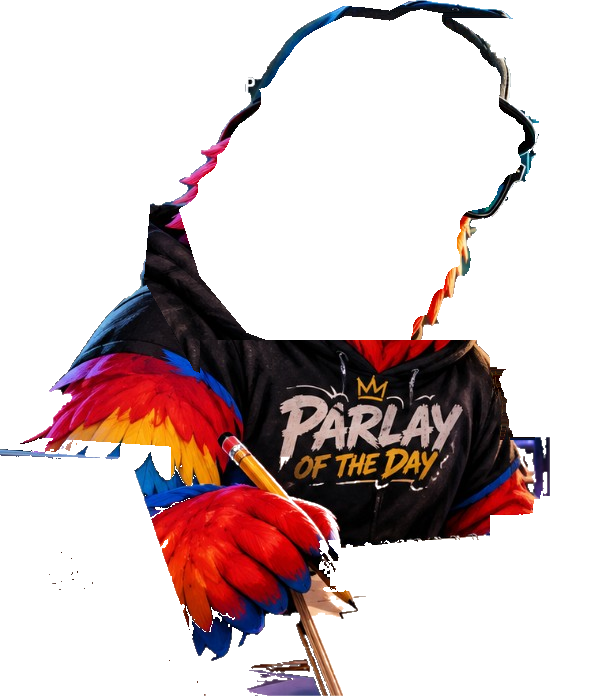
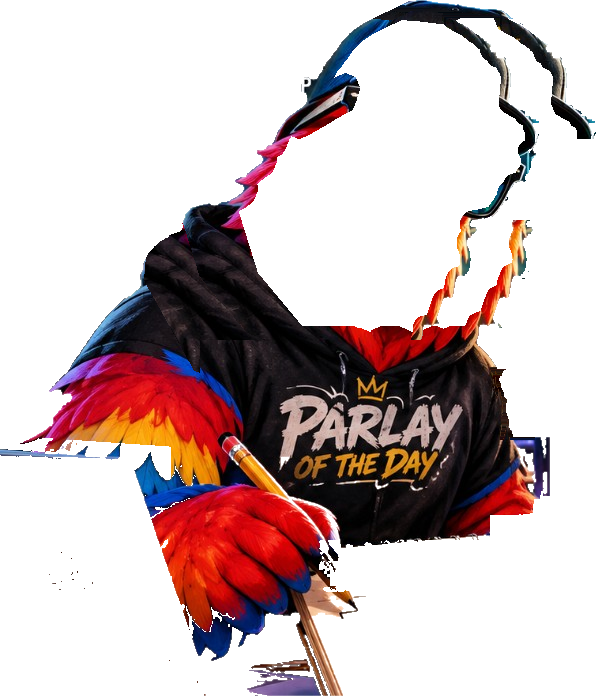
Seat the parrot's head on the original chest, and keep Build and Our Bets zoomed the same way in a wide window.

Changed region(s): [[0.24, 0.0, 0.9, 0.5129], [0.81, 0.0302, 0.99, 0.2112]]

diff --git a/nfl_bets/static/index.html b/nfl_bets/static/index.html
@@ -9,7 +9,7 @@
 <link rel="preconnect" href="https://fonts.gstatic.com" crossorigin/>
 <link href="https://fonts.googleapis.com/css2?family=Oswald:wght@500;600&family=Outfit:wght@400;500;600;700&family=Rajdhani:wght@600;700&display=swap" rel="stylesheet"/>
 <link rel="stylesheet" href="/app.css?v=45"/>
-<link rel="stylesheet" href="/desk.css?v=15"/>
+<link rel="stylesheet" href="/desk.css?v=18"/>
 <style>
 #page-title { display: none; }
 #who { gap: 0.28rem; align-items: center; }
@@ -61,15 +61,16 @@ body.day-board #parrot-load[hidden] { display: none; }
     <div class="warp" id="desk-note"><div class="warp-in" id="desk-note-in"></div></div>
     <img id="desk-books" alt="" src="/scene/books.png">
     <div id="desk-actor">
-      <img id="desk-body" alt="" src="/scene/parrot-body.png?v=2">
+      <img id="desk-body" alt="" src="/scene/parrot-body.png?v=3">
       <div id="desk-head">
-        <img id="desk-parrot" alt="" src="/scene/parrot-head.png?v=2">
+        <img id="desk-parrot" alt="" src="/scene/parrot-head.png?v=4">
         <div id="desk-glint" aria-hidden="true"></div>
       </div>
     </div>
+    <img id="desk-sign" alt="" src="/scene/sign-words.png?v=1">
     <div class="warp" id="desk-laptop"><div class="warp-in" id="desk-laptop-in"></div></div>
     <button type="button" class="hot" data-tab="week" aria-label="Week" style="left:300px;top:728px;width:420px;height:52px"></button>
-    <button type="button" class="hot" data-tab="open" aria-label="Our bets" style="left:640px;top:688px;width:280px;height:150px"></button>
+    <button type="button" class="hot" data-tab="how" aria-label="How we pick" style="left:640px;top:688px;width:280px;height:150px"></button>
     <button type="button" class="hot" data-tab="history" aria-label="History" style="left:860px;top:740px;width:99px;height:190px"></button>
   </div>
   <nav id="desk-dock" aria-label="Desk">
@@ -273,6 +274,18 @@ body.day-board #parrot-load[hidden] { display: none; }
 </div>
 </div>
 </div>
+<section class="tracked" id="pane-how" hidden>
+  <h2>How we pick</h2>
+  <p class="quiet">Four steps. Then a ticket for today and a ticket for the week.</p>
+  <p><b>Research</b></p>
+  <p class="quiet">FanDuel is checked every 10 minutes. The slate is already the player props on the board. College player props stay off, because FanDuel does not offer them.</p>
+  <p><b>Analyze</b></p>
+  <p class="quiet">The card names the stat, so a price has a job. A −550 on 5 receiving yards and a −550 on a score are different bets. Four prices near 85% multiply to about a coin flip. Prices like −800 stay off the best bet of the day.</p>
+  <p><b>Make the picks</b></p>
+  <p class="quiet">Today is the ticket whose price lands between −150 and +100, and the highest chance inside that window. The week is a 3-leg and a 5-leg aimed at −200, so a $5 bet wins about $2.50, plus a super safe parlay aimed at −350. Each leg is a different day. Build a bet can ask for the highest chance, a safe −200, a good −100, or the longest price.</p>
+  <p><b>Cash</b></p>
+  <p class="quiet">You place it. This desk does not send it. Type the line into your own FanDuel account if you want it. A $5 night stays a $5 night. 21+. Gambling problem? Call 1-800-GAMBLER. Past results do not promise the next ticket.</p>
+</section>
 <div class="pane" id="pane-open" hidden>
 <section class="tracked">
   <h2>Our Bets</h2>
@@ -393,8 +406,8 @@ body.day-board #parrot-load[hidden] { display: none; }
   <p>21+. This desk does not send bets. Type a line into your own FanDuel account if you want it.</p>
   <p>Gambling problem? Call 1-800-GAMBLER.</p>
 </footer>
-<script src="/app.js?v=68"></script>
-<script src="/desk.js?v=14"></script>
+<script src="/app.js?v=69"></script>
+<script src="/desk.js?v=18"></script>
 <script src="/members.js?v=15"></script>
 <script src="/stars.js?v=1"></script>
 <script src="/choose.js?v=21"></script>

diff --git a/nfl_bets/static/desk.js b/nfl_bets/static/desk.js
@@ -5,6 +5,7 @@ const PANES = {
   week: ["week", "week5", "safe"],
   build: ["chooser"],
   open: ["pane-open"],
+  how: ["pane-how"],
   history: ["pane-history"],
   profile: ["pane-profile"],
 };
@@ -14,6 +15,10 @@ let shown = "";
 let tweenId = 0;
 
 function viewSize() {
+  const desk = document.getElementById("desk");
+  if (desk && desk.clientWidth > 0 && desk.clientHeight > 0) {
+    return { w: desk.clientWidth, h: desk.clientHeight };
+  }
   const view = window.visualViewport;
   return {
     w: view ? view.width : window.innerWidth,
@@ -66,8 +71,10 @@ function warp() {
   if (laptop && laptop.clientWidth) laptop.style.transform = quadMatrix(laptop.clientWidth, laptop.clientHeight, LAPTOP);
 }
 
-function place(x, y, scale) {
-  const { w, h } = viewSize();
+function place(x, y, scale, box) {
+  const full = viewSize();
+  const w = box ? box.w : full.w;
+  const h = box ? box.h : full.h;
   const visW = w / scale;
   const visH = h / scale;
   const midX = 959 / 2;
@@ -76,15 +83,28 @@ function place(x, y, scale) {
     x: Math.min(Math.max(x, Math.min(visW / 2, midX)), Math.max(959 - visW / 2, midX)),
     y: Math.min(Math.max(y, Math.min(visH / 2, midY)), Math.max(1024 - visH / 2, midY)),
     scale,
+    ox: box ? box.ox : 0,
+    oy: box ? box.oy : 0,
+    sw: w,
+    sh: h,
   };
+}
+
+function zoomBox(w, h) {
+  const aspect = 640 / 720;
+  const fw = h * aspect;
+  return { w: fw, h, ox: (w - fw) / 2, oy: 0 };
 }
 
 function shot(name) {
   const { w, h } = viewSize();
-  const cover = Math.max(w / 959, h / 1024);
   const fit = Math.min(w / 959, h / 1024);
-  if (name === "build" || name === "open" || name === "history" || name === "profile") {
-    return place(750, 340, Math.max(cover, Math.min(w / 480, h / 720)));
+  if (name === "build" || name === "open" || name === "history" || name === "profile" || name === "how") {
+    if (w / h > 640 / 720) {
+      const box = zoomBox(w, h);
+      return place(900, 0, Math.min(box.w / 640, box.h / 720), box);
+    }
+    return place(900, 0, Math.max(w / 700, h / 720));
   }
   return place(480, 512, fit);
 }
@@ -93,11 +113,24 @@ function apply() {
   const world = document.getElementById("desk-world");
   if (!world) return;
   const { w, h } = viewSize();
-  world.style.transform = `translate(${w / 2 - cam.x * cam.scale}px, ${h / 2 - cam.y * cam.scale}px) scale(${cam.scale})`;
+  const sw = cam.sw || w;
+  const sh = cam.sh || h;
+  const ox = cam.ox || 0;
+  const oy = cam.oy || 0;
+  world.style.transform = `translate(${ox + sw / 2 - cam.x * cam.scale}px, ${oy + sh / 2 - cam.y * cam.scale}px) scale(${cam.scale})`;
 }
 
 function tween(target) {
-  const from = { x: cam.x, y: cam.y, scale: cam.scale };
+  const { w, h } = viewSize();
+  const from = {
+    x: cam.x,
+    y: cam.y,
+    scale: cam.scale,
+    ox: cam.ox || 0,
+    oy: cam.oy || 0,
+    sw: cam.sw || w,
+    sh: cam.sh || h,
+  };
   const start = performance.now();
   const token = ++tweenId;
   function step(now) {
@@ -107,6 +140,10 @@ function tween(target) {
     cam.x = from.x + (target.x - from.x) * ease;
     cam.y = from.y + (target.y - from.y) * ease;
     cam.scale = from.scale + (target.scale - from.scale) * ease;
+    cam.ox = from.ox + ((target.ox || 0) - from.ox) * ease;
+    cam.oy = from.oy + ((target.oy || 0) - from.oy) * ease;
+    cam.sw = from.sw + ((target.sw || w) - from.sw) * ease;
+    cam.sh = from.sh + ((target.sh || h) - from.sh) * ease;
     apply();
     if (k < 1) requestAnimationFrame(step);
   }

diff --git a/nfl_bets/static/desk.css b/nfl_bets/static/desk.css
@@ -157,15 +157,24 @@ body.needs-member #desk-head { animation: desk-talk 0.48s ease-in-out infinite; 
   z-index: 8;
   pointer-events: none;
 }
+#desk-sign {
+  position: absolute;
+  left: 118px;
+  top: 230px;
+  width: 216px;
+  height: 47px;
+  z-index: 9;
+  pointer-events: none;
+}
 #desk-head {
   position: absolute;
   inset: 0;
-  transform-origin: 360px 534px;
+  transform-origin: 416px 534px;
   animation: desk-bob 3.2s ease-in-out infinite;
 }
 #desk-glint {
   position: absolute;
-  left: 322px;
+  left: 378px;
   top: 328px;
   width: 168px;
   height: 42px;
@@ -247,6 +256,8 @@ body.needs-member #desk-head { animation: desk-talk 0.48s ease-in-out infinite; 
   letter-spacing: 0.04em;
   text-transform: uppercase;
 }
+#desk-glass #pane-how p { margin: 0 0 6px; }
+#desk-glass #pane-how b { color: #3dff6e; font-size: 16px; letter-spacing: 0.04em; }
 #desk-glass .aim, #desk-glass .when, #desk-glass .quiet { color: #d5deea; font-size: 13px; }
 #desk-glass .aim { display: none; }
 #desk-glass li { grid-template-columns: 3.4rem minmax(0, 1fr); align-items: start; }

diff --git a/nfl_bets/static/app.js b/nfl_bets/static/app.js
@@ -364,10 +364,10 @@ function renderArchive(tickets) {
 
 function showTab(name) {
   state.tab = name;
-  const titles = { today: "Today", week: "Week", build: "Build a bet", open: "Our Bets", history: "History", profile: "Profile" };
+  const titles = { today: "Today", week: "Week", build: "Build a bet", open: "Our Bets", history: "History", profile: "Profile", how: "How we pick" };
   $("page-title").textContent = titles[name] || titles.today;
   document.body.classList.add("day-board");
-  ["today", "week", "build", "open", "history", "profile"].forEach((id) => {
+  ["today", "week", "build", "open", "history", "profile", "how"].forEach((id) => {
     $(`pane-${id}`).hidden = id !== name;
     document.querySelectorAll(`[data-tab="${id}"]`).forEach((tab) => tab.classList.toggle("on", id === name));
   });
